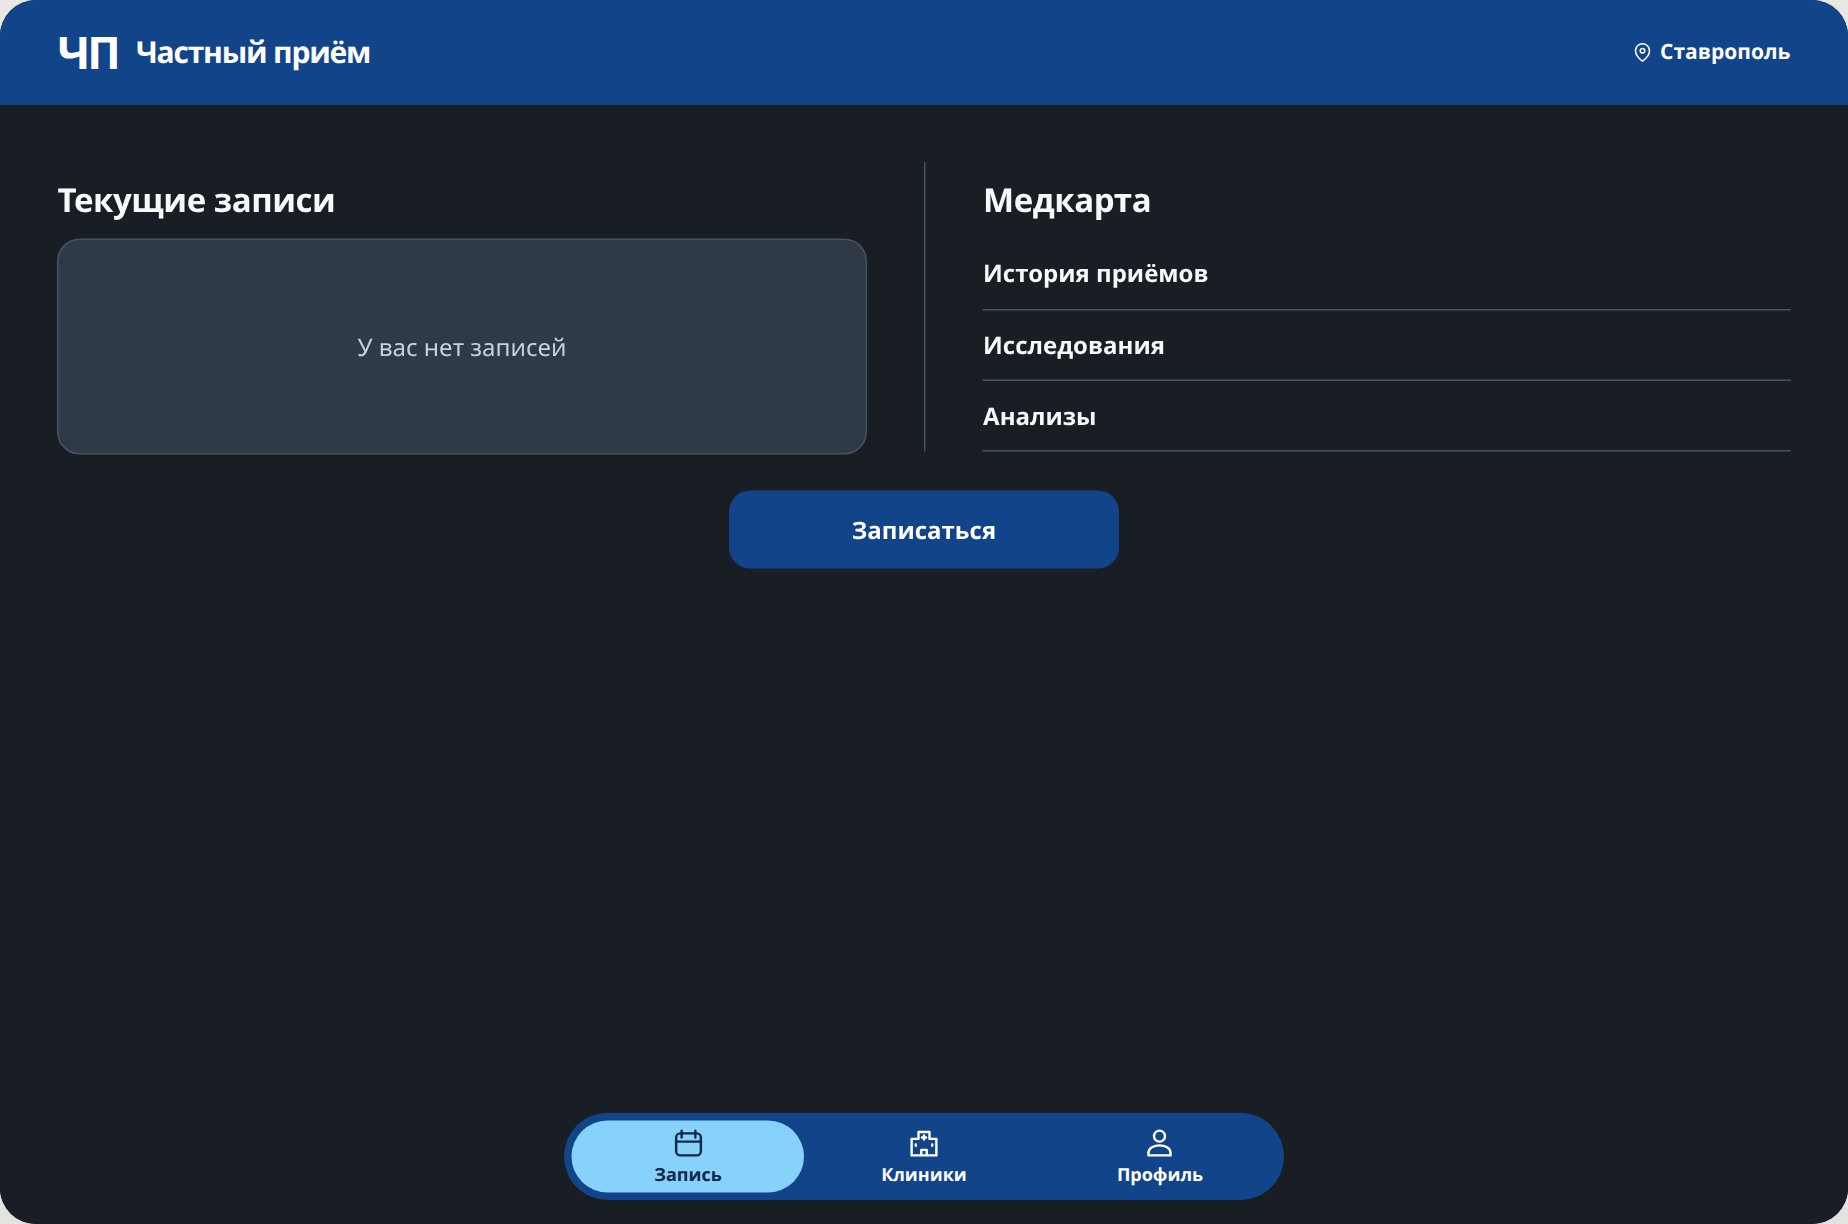
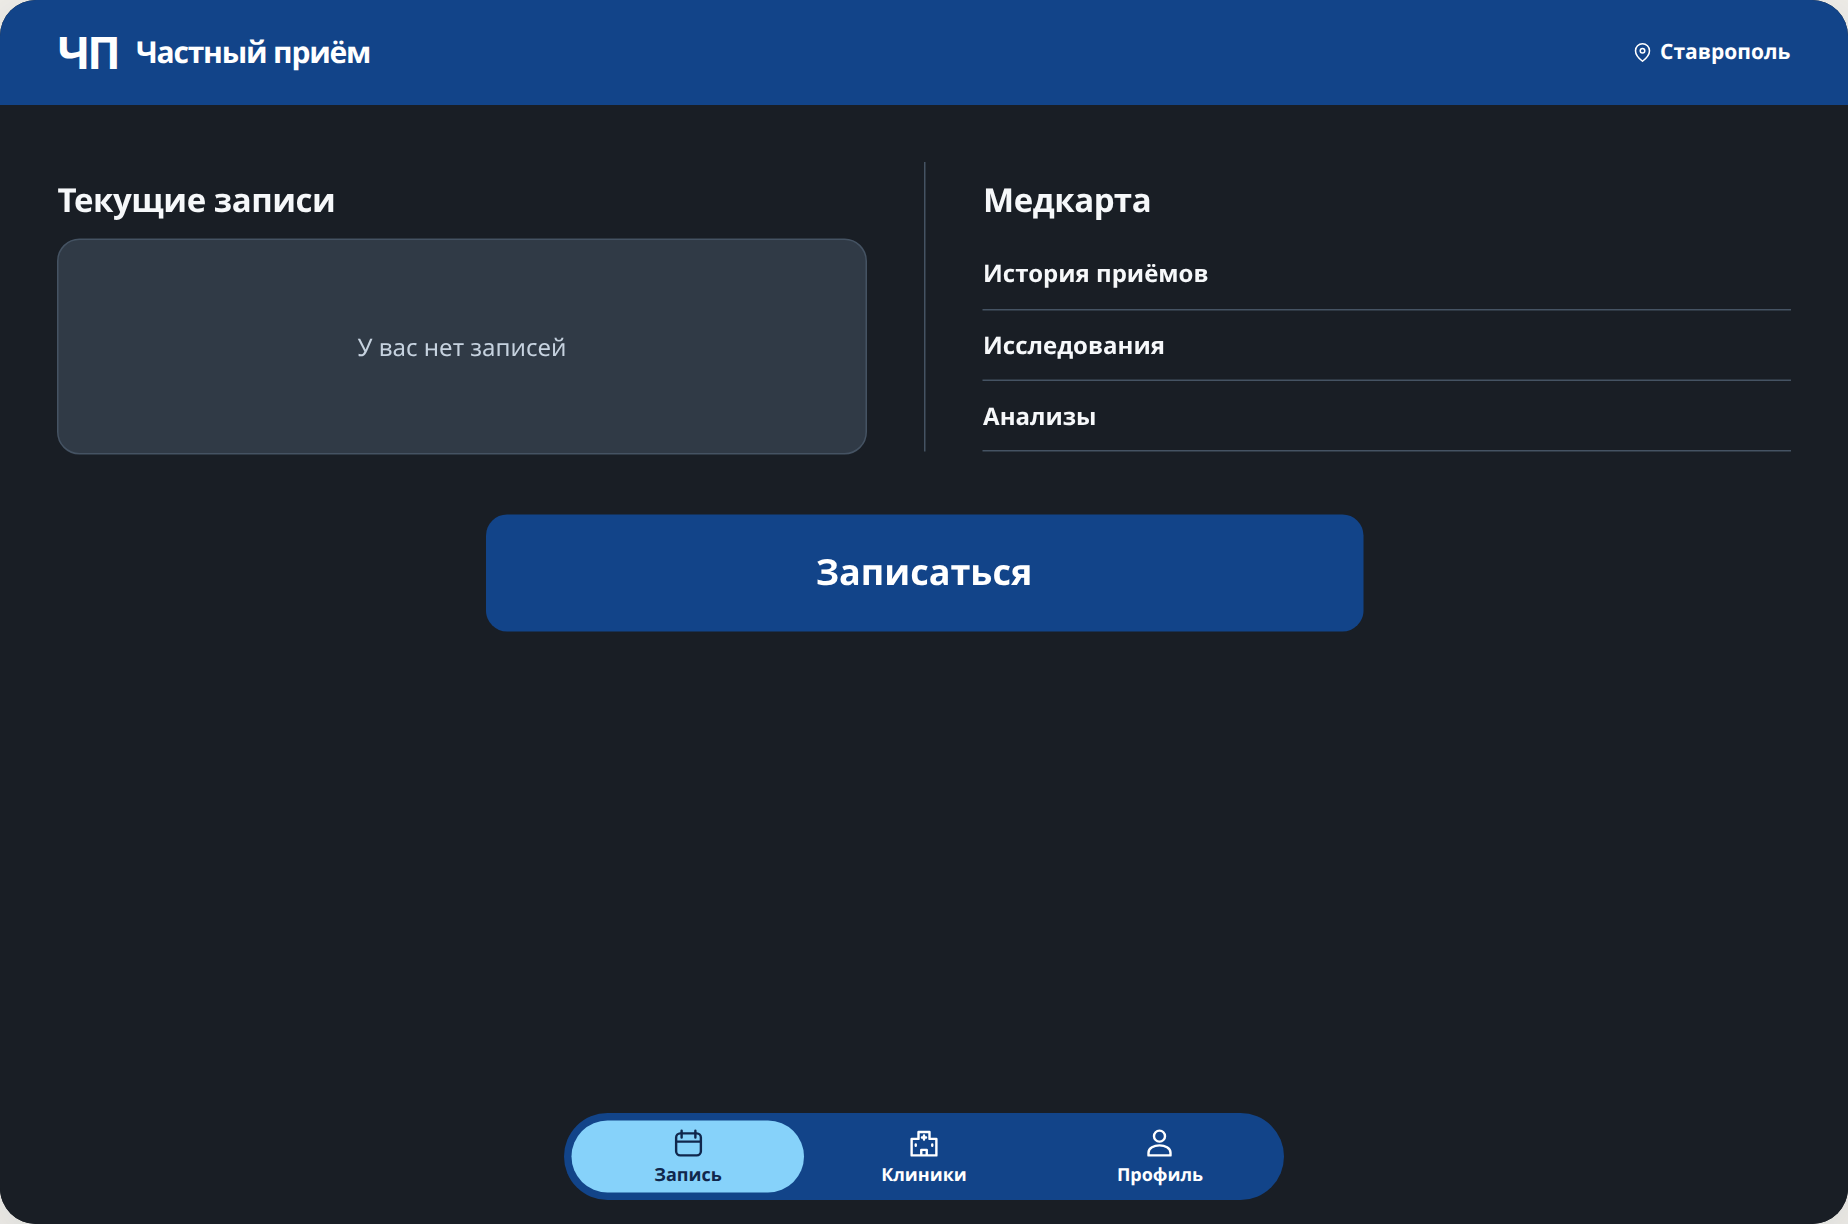
Адаптировать поиск, заголовки и компоновку карточки к ширине окна

Changed region(s): [[0.2468, 0.3725, 0.7403, 0.5278]]

diff --git a/output/design/blue-accent/app.js b/output/design/blue-accent/app.js
@@ -123,12 +123,12 @@ function clinicDetails() {
   return `<div class="clinic-heading">${back(origin)}<h1>${name}</h1>
     <button class="favorite" data-save aria-label="В избранном" aria-pressed="${favorites.has(current)}">${icon('heart')}</button></div>
     <div class="clinic-body"><section class="gallery" aria-label="Фотографии клиники">
-      <h2>Фотографии</h2><div class="photo-strip" tabindex="0" role="group" aria-label="Фотографии филиала, горизонтальная прокрутка">${[1,2,3].map(n => `<span role="img" aria-label="Место для фотографии ${n}"></span>`).join('')}</div></section>
-    <section class="clinic-info"><h2>Профиль клиники</h2><p>${category}</p>
+      <div class="photo-strip" tabindex="0" role="group" aria-label="Фотографии филиала, горизонтальная прокрутка">${[1,2,3].map(n => `<span role="img" aria-label="Место для фотографии ${n}"></span>`).join('')}</div></section>
+    <section class="clinic-info"><div><h2>Профиль клиники</h2><p>${category}</p>
       <h2>Адрес филиала</h2><p>${icon('pin')} Ставрополь, ${address}</p>
       <div class="contact-actions"><button class="secondary" data-contact="call">Позвонить</button>
       <button class="secondary" data-contact="site">Сайт клиники</button></div>
-      <p class="notice" id="message" role="status"></p></section></div>`;
+      <p class="notice" id="message" role="status"></p></div></section></div>`;
 }
 
 function profile() {
@@ -141,7 +141,7 @@ function profile() {
     <button class="sign-out logout" data-logout>${icon('logout')}Выйти</button></section>`;
 }
 function personalData() {
-  return `${back('profile')}<h1>Личные данные</h1>
+  return `<div class="record-heading">${back('profile')}<h1>Личные данные</h1></div>
     <dl class="personal-data"><dt>Фамилия, имя, отчество</dt><dd id="full-name"></dd>
     <dt>Электронная почта</dt><dd id="personal-email"></dd></dl>`;
 }
@@ -268,14 +268,14 @@ function content() {
   switch(page) {
     case 'catalog': return catalogue();
     case 'detail': return clinicDetails();
-    case 'saved': return back('profile')+'<h1>Избранное</h1>'+(rows([...favorites])||'<p>Сохраняйте клиники из их карточек.</p>'+go('К клиникам','catalog'));
+    case 'saved': return '<div class="record-heading">'+back('profile')+'<h1>Избранное</h1></div>'+(rows([...favorites])||'<p>Сохраняйте клиники из их карточек.</p>'+go('К клиникам','catalog'));
     case 'profile': return profile();
     case 'booking': return bookings();
     case 'personal': return personalData();
     case 'registration': return registration();
     case 'history': case 'studies': case 'labs':
       return '<div class="record-heading">'+back('booking')+'<h1>'+pages[page]+'</h1></div><p class="later muted">Функция появится позже.</p>';
-    case 'login': return '<h1>Вход</h1><p>Введите почту, чтобы сохранить избранное на всех устройствах.</p><form id="login-form"><label class="field">Электронная почта<input type="email" id="email" placeholder="anna@example.com" required></label><button class="primary">Получить код</button></form>';
+    case 'login': return '<h1>Вход</h1><p class="login-gap" aria-hidden="true"></p><form id="login-form"><label class="field">Электронная почта<input type="email" id="email" placeholder="anna@example.com" required></label><button class="primary">Получить код</button></form>';
     case 'code': return back('login')+'<h1>Код из письма</h1><p>Введите код для <b id="account"></b>.</p><form id="code-form"><label class="field">Одноразовый код<input class="code" inputmode="numeric" autocomplete="one-time-code" pattern="[0-9]{6}" maxlength="6" placeholder="000000" required></label><button class="primary">Войти</button></form><p class="notice">Вход сохранится на этом устройстве.</p>';
     case 'slot': return '<h1>Записаться на приём</h1><h2>Первичная консультация</h2><p>Терапевт · Демо-клиника</p><h2>26 ноября</h2><div class="split">'+options(['09:00','10:30','14:00'],['09:00','10:30','14:00'].indexOf(time),'time')+'</div>';
     case 'confirmed': case 'reschedule': return visitPage();
@@ -287,6 +287,7 @@ function showSearch(show) {
   $('search-box').inert = !show;
 }
 function render(restoreY=0) {
+  resetPull();
   applyTheme();
   $('phone').dataset.screen = page;
   $('page').value = page;
@@ -347,7 +348,7 @@ $('query').addEventListener('input',e=>{
   $('scroll').scrollTop=0;
 });
 $('scroll').addEventListener('scroll',()=>{
-  if(page!=='catalog') return;
+  if(page!=='catalog' || (wideWindow.matches && $('layout').value!=='phone')) return;
   const y=$('scroll').scrollTop, delta=y-previousY;
   previousY=y;
   travel=Math.sign(delta)===Math.sign(travel)?travel+delta:delta;
@@ -466,9 +467,63 @@ $('page').innerHTML=Object.entries(pages).map(([id,label])=>'<option value="'+id
 $('city').innerHTML=icon('pin')+'Ставрополь';
 $('lens').innerHTML=icon('search');
 $('layout').value=params.get('layout')==='phone'?'phone':'auto';
+const wideWindow=matchMedia($('adaptive-style').media);
+// Preview the compact header gesture against local prototype data.
+const scroller=$('scroll');
+let headerPull;
+function resetPull() {
+  if (!headerPull) return;
+  headerPull.heading.style.removeProperty('--pull-offset');
+  headerPull.title.style.removeProperty('transform');
+  headerPull.indicator.remove();
+  headerPull=null;
+}
+scroller.addEventListener('touchstart',event=>{
+  resetPull();
+  if (event.touches.length!==1 || scroller.scrollTop>0 || (wideWindow.matches && $('layout').value!=='phone')) return;
+  const heading=$('content').querySelector('.record-heading,.clinic-heading');
+  if (!heading) return;
+  const title=heading.querySelector('h1');
+  const indicator=document.createElement('div');
+  indicator.className='refresh-preview';
+  indicator.hidden=true;
+  indicator.textContent='Потяните для обновления';
+  heading.after(indicator);
+  const touch=event.touches[0];
+  headerPull={heading,title,indicator,startY:touch.clientY,startX:touch.clientX,ready:false};
+},{passive:true});
+scroller.addEventListener('touchmove',event=>{
+  if (!headerPull) return;
+  const {heading,title,indicator,startX,startY}=headerPull;
+  const touch=event.touches[0],distance=touch.clientY-startY;
+  if (event.touches.length!==1 || distance<=0 || Math.abs(touch.clientX-startX)>distance) {resetPull(); return;}
+  if (event.cancelable) event.preventDefault();
+  const progress=Math.min(distance/80,1);
+  const offset=(heading.querySelector('.icon-back').offsetWidth+parseFloat(getComputedStyle(heading).gap))*progress;
+  const drop=(title.offsetHeight+10)*progress;
+  title.style.transform='translate('+(-offset)+'px,'+drop+'px)';
+  heading.style.setProperty('--pull-offset',drop+'px');
+  indicator.hidden=distance<=80;
+  headerPull.ready=distance>=130;
+  indicator.textContent=headerPull.ready?'Отпустите для обновления':'Потяните для обновления';
+},{passive:false});
+scroller.addEventListener('touchend',()=>{
+  const refresh=headerPull?.ready;
+  resetPull();
+  if (refresh) render();
+});
+scroller.addEventListener('touchcancel',resetPull);
+function syncLayout(){
+  resetPull();
+  $('adaptive-style').media=$('layout').value==='phone'?'not all':wideWindow.media;
+  previousY=$('scroll').scrollTop;
+  travel=0;
+  showSearch(true);
+}
+syncLayout();
+wideWindow.addEventListener('change',syncLayout);
 $('layout').onchange=e=>{
-  const mobile=e.target.value==='phone';
-  $('adaptive-style').media=mobile?'not all':'(min-width: 680px)';
+  syncLayout();
   const url=new URL(location.href);
   url.searchParams.set('layout',e.target.value);
   history.replaceState(null,'',url);

diff --git a/output/design/blue-accent/wide.css b/output/design/blue-accent/wide.css
@@ -43,11 +43,14 @@ nav {width:min(100%,480px);margin:auto}
 [data-screen=detail] #content,[data-screen=personal] #content,[data-screen=history] #content,[data-screen=studies] #content,[data-screen=labs] #content,[data-screen=code] #content,[data-screen=confirmed] #content,[data-screen=reschedule] #content {width:100%;position:relative}
 .clinic-heading,.record-heading {margin-bottom:24px;gap:14px}
 .clinic-heading h1,.record-heading h1 {font-size:clamp(26px,3vw,42px)}
-.clinic-body {display:grid;grid-template-columns:minmax(0,1.2fr) minmax(0,1fr);gap:clamp(24px,4vw,64px);align-items:start}
+.clinic-body {display:grid;grid-template-columns:minmax(0,1.2fr) minmax(0,1fr);gap:clamp(24px,4vw,64px);align-items:stretch}
 .clinic-body h2:first-child {margin-top:0}
-.clinic-info {border-inline-start:1px solid var(--line);padding-inline-start:clamp(18px,3vw,44px)}
+.clinic-info {display:grid;align-items:center;border-inline-start:1px solid var(--line);padding-inline-start:clamp(18px,3vw,44px)}
 .clinic-info .contact-actions {margin-top:24px}
-.gallery {min-width:0}
+.gallery {min-width:0;display:grid;align-items:center;container-type:inline-size}
+.gallery::before,.gallery>.photo-strip {grid-area:1/1}
+.gallery::before {content:"";height:100cqi}
+.clinic-info .notice:empty {display:none}
 .preferences {min-width:0}
 .preferences .theme-heading {margin-top:32px}
 .account-section .identity {border:0;gap:20px}
@@ -56,8 +59,8 @@ nav {width:min(100%,480px);margin:auto}
 [data-screen=booking] #content {grid-template-columns:repeat(2,minmax(0,1fr));column-gap:0;row-gap:24px}
 [data-screen=booking] #content>section:first-child {grid-area:1/1;padding-right:clamp(18px,3vw,42px)}
 .records {grid-area:1/2}
-.book {grid-area:2 / 1 / 3 / -1;justify-self:center;width:min(260px,100%);min-height:52px;margin:0}
-[data-screen=personal] #content,[data-screen=code] #content,[data-screen=confirmed] #content,[data-screen=reschedule] #content {padding-inline:max(calc((100% - 540px)/2),84px)}
+.book {grid-area:2 / 1 / 3 / -1;justify-self:center;width:min(585px,100%);min-height:78px;font-size:24px;margin:16px 0 0}
+[data-screen=code] #content,[data-screen=confirmed] #content,[data-screen=reschedule] #content {padding-inline:max(calc((100% - 540px)/2),84px)}
 :is([data-screen=personal],[data-screen=code],[data-screen=confirmed],[data-screen=reschedule]) #content>.icon-back {position:absolute;top:clamp(24px,3vw,48px);left:clamp(18px,3vw,48px)}
 :is([data-screen=history],[data-screen=studies],[data-screen=labs]) #content {min-height:100%;display:grid;grid-template-rows:auto 1fr}
 .record-heading {margin:0}

diff --git a/output/design/blue-accent/style.css b/output/design/blue-accent/style.css
@@ -119,3 +119,10 @@ dialog h2 {margin:0 0 18px;font-size:21px;line-height:1.3}
 .photo-strip span:nth-child(2) {background:var(--card)}
 .photo-strip span:nth-child(3) {background:var(--filter)}
 @media(max-width:670px){aside {flex-wrap:wrap} aside select{max-width:120px}}
+
+[data-screen=login] #content {container-type:inline-size}
+.login-gap {height:2lh}
+@container (min-width: 495px) { .login-gap {height:1lh} }
+
+.clinic-heading,.record-heading {padding-bottom:var(--pull-offset,0px)}
+.refresh-preview {color:var(--muted);text-align:center;font-size:14px;padding:8px}

diff --git a/output/design/blue-accent/index.html b/output/design/blue-accent/index.html
@@ -6,11 +6,7 @@
 <link rel="stylesheet" href="palette.css">
 <link rel="stylesheet" href="style.css">
 <link id="adaptive-style" rel="stylesheet" href="wide.css" media="(min-width: 680px)">
-<script>
-  if (new URLSearchParams(location.search).get('layout') === 'phone') {
-    document.getElementById('adaptive-style').media = 'not all';
-  }
-</script>
+
 <main>
   <aside aria-label="Просмотр макета">
     <strong>Синий акцент</strong>
